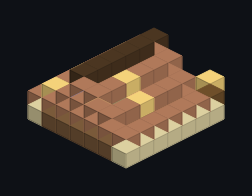
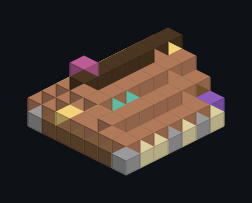
feat(world): patched sailcloth tent with a fly, and a cairn and marker at the treasure spot (st4b)

diff --git a/art/structures/pirate_island/tent.py b/art/structures/pirate_island/tent.py
@@ -1,9 +1,12 @@
-"""Generates a pirate's canvas tent (7x6 footprint, an A-frame of wool over a stripped log ridge pole) and prints the
+"""Generates a pirate's canvas tent (7x6x7 box, an A-frame of wool over a stripped log ridge pole) and prints the
 BuildSpec as JSON. The opening and the hut connector are on the north (-z) side; row z 0 is the sand in front.
 
 Inside: a bed roll, a chest and a barrel with a lantern. Vanilla has no wool stairs or slabs, so the canvas is
-stepped wool: white with grey patches, a brown hem along the ground."""
-from _style import PALETTE, bed, torch_post
+stepped wool: old sailcloth, white with grey and brown patches and a red sailcloth patch, a brown hem along the
+ground. ST4b: the ridge pole runs on over a fly in row z 0 that shades the door flap on two fence poles, a lantern
+hangs from the pole's end, a red pennant flies from its back end, guy stakes and a crate stand at the front corners,
+a rug lies inside, and the sand at the tent's foot turns to gravel and coarse dirt."""
+from _style import PALETTE, bed, jit, palisade_post, sand_skirt
 from buildspec import Piece
 
 W = 7
@@ -15,33 +18,60 @@ p = Piece("pirate_island_tent", "Pirate Tent", (W, 6, Z1 + 1), PALETTE)
 p.fill(0, 0, 0, W - 1, 0, Z1, "sand")
 p.fill(1, 0, Z0, W - 2, 0, Z1, "coarse")
 p.put(3, 0, 0, "coarse")
+sand_skirt(p, 1, Z0, W - 2, Z1, reach=1, salt=11)
+p.put(2, 0, 0, "gravel")
+
+
+def cloth(x, y, z):
+    """The canvas key for a slope cell: a brown hem on the ground course, a red sailcloth patch on the middle course
+    near the front, grey and brown patches elsewhere."""
+    if y == 1:
+        return "canvas_brown"
+    r = jit(x, y, z, 5)
+    if y == 2 and z in (2, 3):
+        return "canvas_red"
+    return "canvas_grey" if r < 170 else "canvas_brown" if r < 230 else "canvas"
+
 
 # the slopes: one wool course per row up to the ridge pole
 for z in range(Z0, Z1 + 1):
     for y in range(1, RIDGE):
         for x in (y - 1, W - y):
-            if y == 1:
-                key = "canvas_brown"
-            else:
-                key = "canvas_grey" if (x + 2 * z + y) % 5 == 0 else "canvas"
-            p.put(x, y, z, key)
-p.fill(3, RIDGE, Z0, 3, RIDGE, Z1, "beam_z")
-# the back gable closed, the front gable open in the middle (an opening 3 wide below, 1 wide above)
+            p.put(x, y, z, cloth(x, y, z))
+# the ridge pole runs on over the fly at the front
+p.fill(3, RIDGE, 0, 3, RIDGE, Z1, "beam_z")
+# the back gable closed (a patched panel), the front gable open in the middle (an opening 3 wide below, 1 wide above)
 for y in range(1, RIDGE):
     p.fill(y, y, Z1, W - 1 - y, y, Z1, "canvas")
+p.put(2, 1, Z1, "canvas_grey")
+p.put(4, 2, Z1, "canvas_brown")
 for x, y in ((1, 1), (5, 1), (2, 2), (4, 2), (3, 3)):
     p.put(x, y, Z0, "canvas")
 
-# inside: the bed roll along the east slope, a chest at the back, a barrel with a lantern
-bed(p, 4, 1, 3, "south")
-p.put(2, 1, 5, "minecraft:chest[facing=east,type=single,waterlogged=false]")
-p.put(2, 1, 3, "barrel")
-p.put(3, 1, 5, "lantern")
+# the fly: the slopes' upper courses carry on one block over the door flap, on two fence poles
+for x, y in ((1, 2), (5, 2), (2, 3), (4, 3)):
+    p.put(x, y, 0, cloth(x, y, 0))
+p.put(1, 1, 0, "fence")
+p.put(5, 1, 0, "fence")
+p.put(3, RIDGE - 1, 0, "lantern_hanging")
+# a red pennant on the ridge pole's back end
+p.put(3, RIDGE + 1, Z1, "minecraft:red_banner[rotation=4]")
 
-torch_post(p, 6, 1, 0)
+# a guy stake at one front corner, a crate at the other
+palisade_post(p, 0, 1, 0, height=1, wood="drift", tip=False)
+p.put(6, 1, 0, "pirates_n_ships:cargo_crate")
+
+# inside: the bed roll along the east slope, a chest at the back, a barrel with a lantern, a rug
+bed(p, 4, 1, 3, "south")
+p.put(2, 1, 5, "minecraft:chest[facing=east,type=single]")
+p.put(2, 1, 3, "barrel")
+p.put(2, 2, 3, "lantern")
+p.put(3, 1, 5, "lantern")
+p.fill(3, 1, 3, 3, 1, 4, "minecraft:red_carpet")
+p.put(2, 1, 4, "minecraft:brown_carpet")
 
 p.connector(3, 0, 0, "hut_in", "north", "minecraft:sand")
 
-p.emit("canvas tent of stepped wool over a ridge pole, bed roll and chest",
+p.emit("canvas tent of patched, striped wool over a ridge pole with a fly, bed roll, chest and rug",
        ["Faces north: the opening and the hut_in connector are on the -z side.",
         "y 0 is the foundation row, level with the terrain surface."])

diff --git a/art/structures/pirate_island/treasure_spot.py b/art/structures/pirate_island/treasure_spot.py
@@ -4,8 +4,12 @@ A small piece of the ``huts`` pool: two stripped logs lie crossed on the sand, a
 and the **buried treasure marker** (a jigsaw named ``pirates_n_ships:treasure``, README "Pirate island (ST2)") sits
 two blocks under the surface below the cross. Unlike the other land pieces, the surface here is row y 2 (rows 0..1
 are the sand the treasure is buried in): ``hut_in`` sits on the surface row, so the piece's surface lines up with the
-trail it hangs from and the marker ends up two blocks under the ground."""
-from _style import PALETTE, treasure
+trail it hangs from and the marker ends up two blocks under the ground.
+
+ST4b: a cairn of mossy stones and a palm marker stake stand at two corners, a bleached bone breaks the surface, an
+old trapdoor lid lies by the cross, and the sand around the cross is speckled with gravel and coarse dirt (the
+column over the marker stays sand, so the treasure is dug out through sand)."""
+from _style import PALETTE, jit, palisade_post, trapdoor, treasure
 from buildspec import Piece
 
 S = 5
@@ -15,20 +19,32 @@ C = S // 2
 p = Piece("pirate_island_treasure_spot", "Pirate Treasure Spot", (S, 5, S), PALETTE)
 
 p.fill(0, 0, 0, S - 1, SURFACE, S - 1, "sand")
+for x in range(S):
+    for z in range(S):
+        r = jit(x, SURFACE, z, 81)
+        if (x, z) != (C, C) and (x, z) != (C, 0) and r < 220:
+            p.put(x, SURFACE, z, "gravel" if r < 160 else "coarse")
 p.put(0, SURFACE, 4, "coarse")
 p.put(4, SURFACE, 1, "coarse")
+p.put(0, SURFACE, 2, "bones")
 
 # X marks the spot: two stripped logs crossed flat on the sand
 p.fill(C - 1, SURFACE + 1, C, C + 1, SURFACE + 1, C, "beam_x")
 p.put(C, SURFACE + 1, C - 1, "beam_z")
 p.put(C, SURFACE + 1, C + 1, "beam_z")
-p.put(4, SURFACE + 1, 3, "minecraft:dead_bush")
-p.put(0, SURFACE + 1, 1, "minecraft:dead_bush")
+p.put(4, SURFACE + 1, 3, "dead_bush")
+p.put(0, SURFACE + 1, 1, "dead_bush")
 p.put(1, SURFACE + 1, 3, "minecraft:skeleton_skull[powered=false,rotation=6]")
+p.put(3, SURFACE + 1, 3, trapdoor("east"))
+# a cairn of mossy stones in one corner, a palm marker stake in the other
+p.put(0, SURFACE + 1, 4, "mossy")
+p.put(1, SURFACE + 1, 4, "cobble")
+p.put(0, SURFACE + 2, 4, "mossy")
+palisade_post(p, 4, SURFACE + 1, 4, height=1, wood="palm")
 
 treasure(p, C, SURFACE - 2, C)
 p.connector(C, SURFACE, 0, "hut_in", "north", "minecraft:sand")
 
-p.emit("buried treasure: crossed logs on the sand, the treasure marker two blocks below",
+p.emit("buried treasure: crossed logs on the sand, a cairn and a marker stake, the treasure marker two blocks below",
        ["hut_in at [2, 2, 0] on the surface row (y 2); the treasure marker is at [2, 0, 2].",
         "The world module turns the marker into a buried chest and a treasure map target."])
